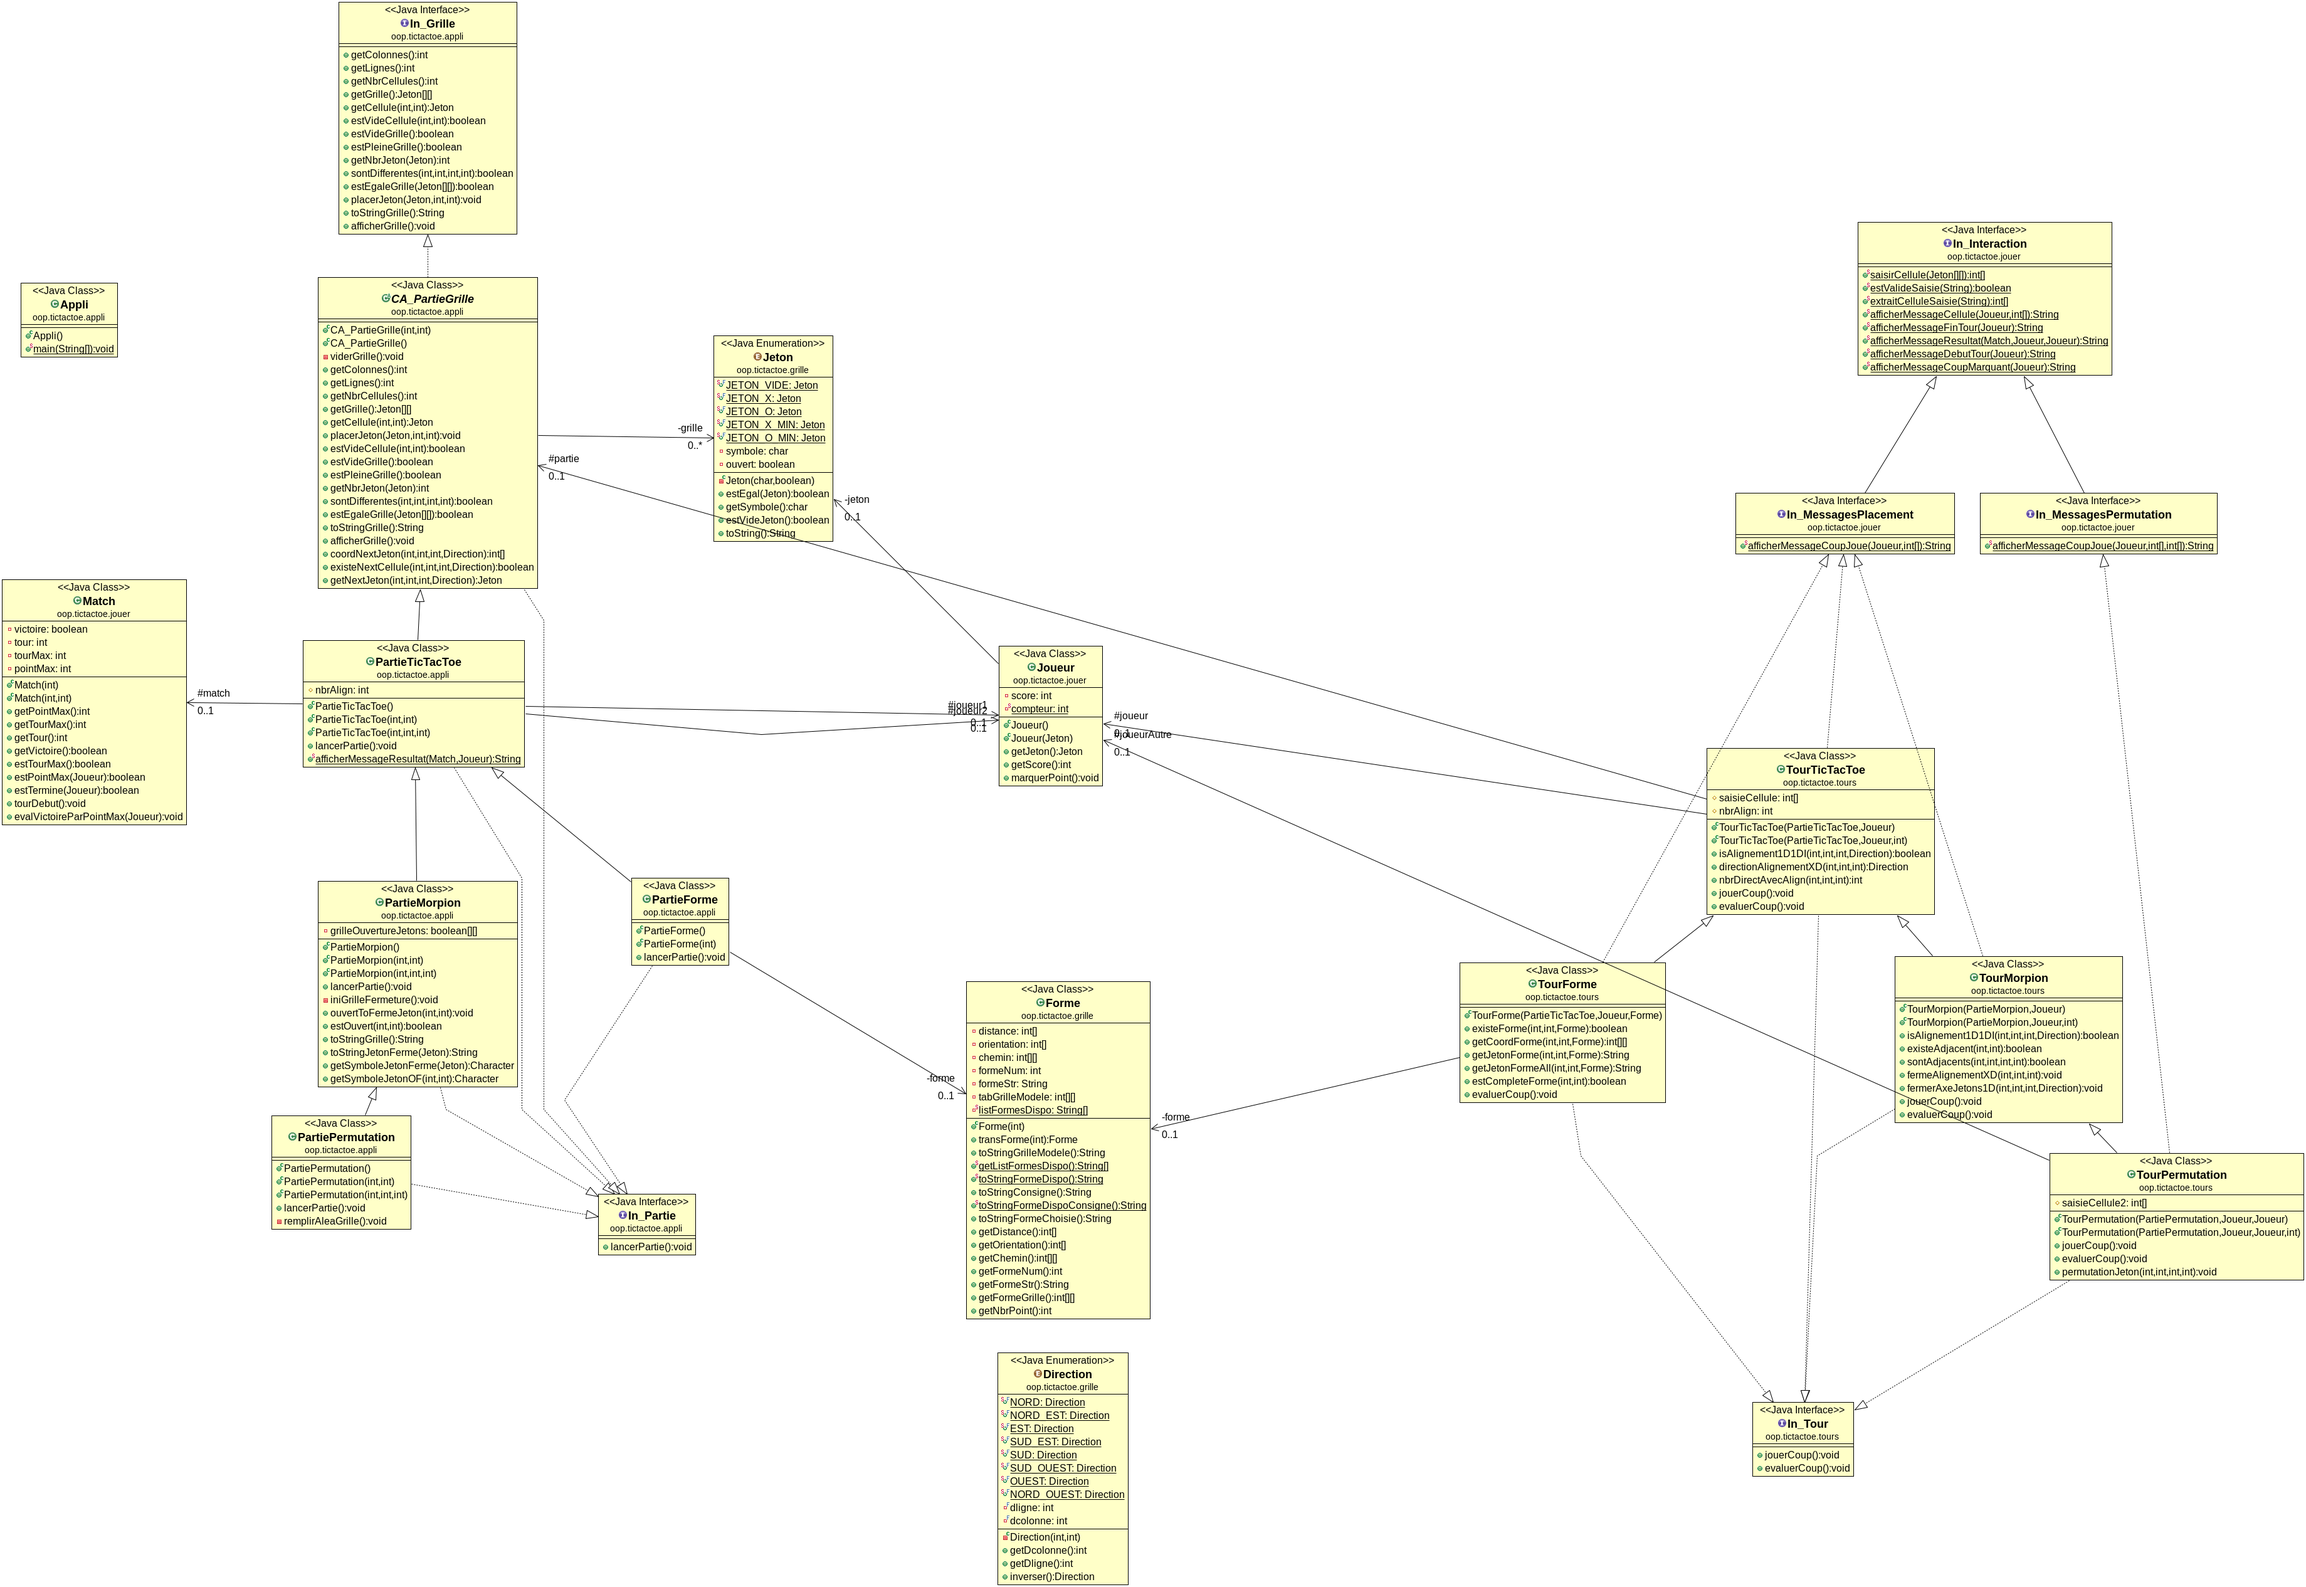
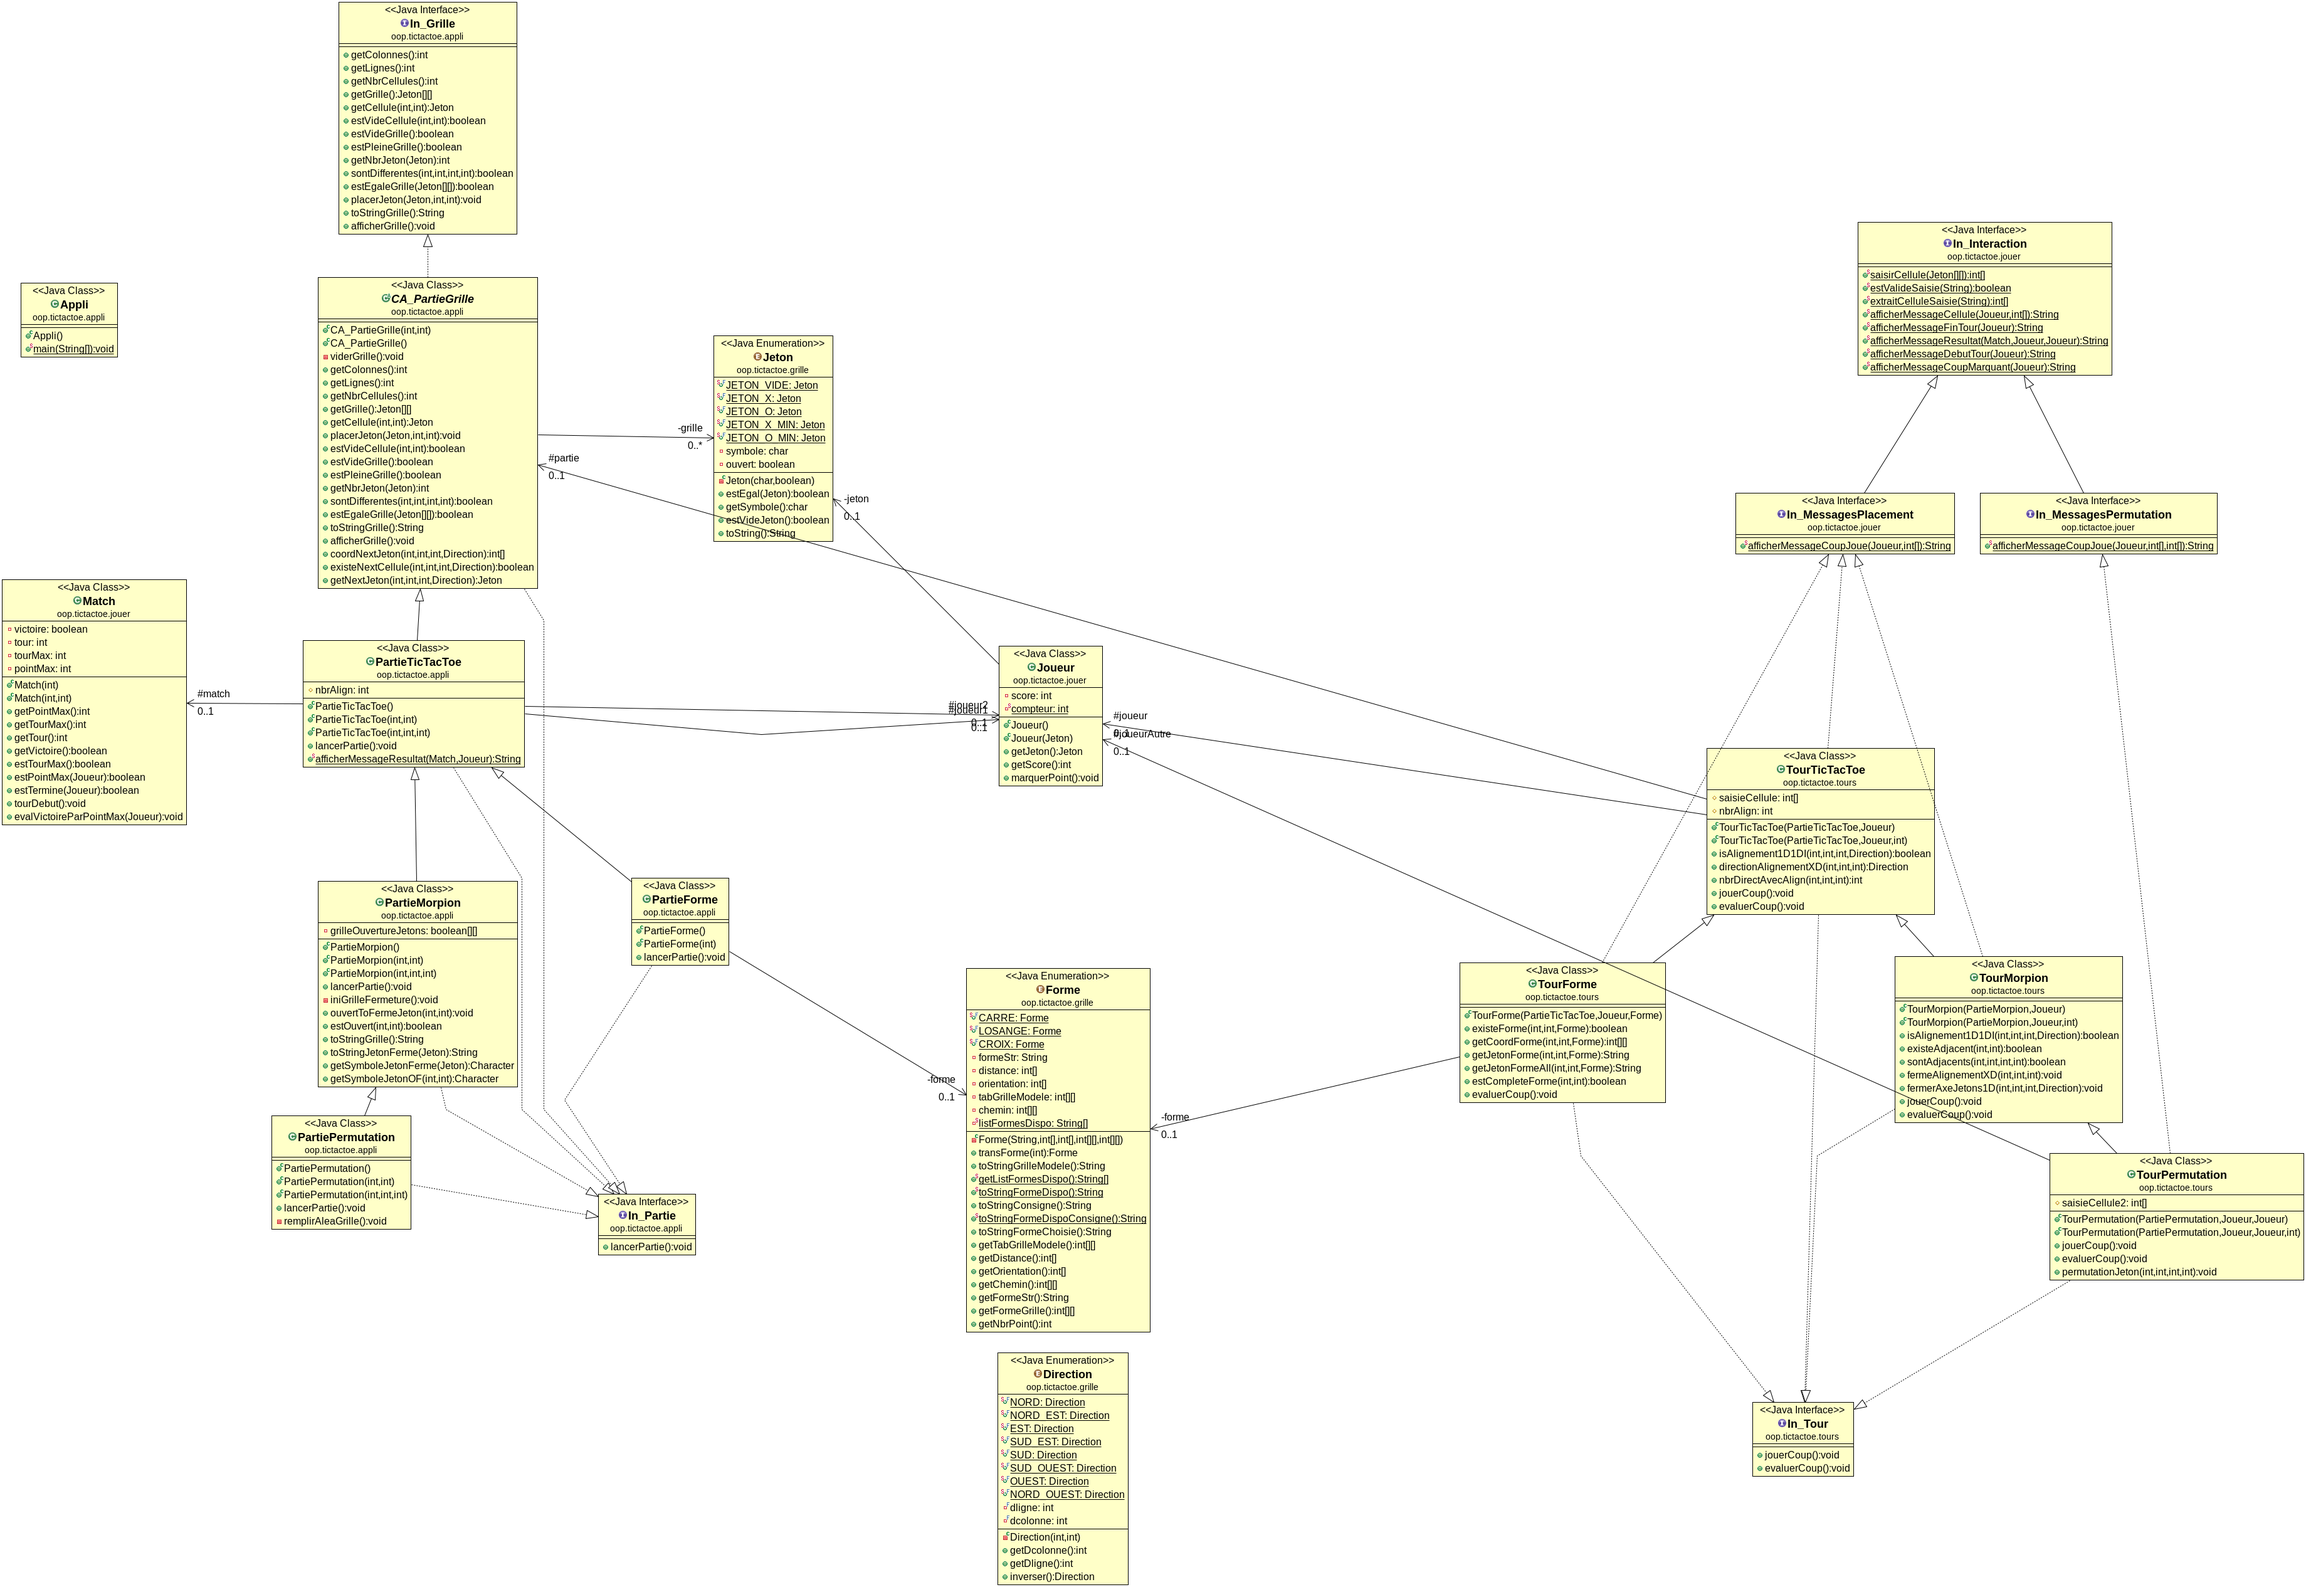
menu forme ok

Changed region(s): [[0.4029, 0.593, 0.4959, 0.8427], [0.4649, 0.437, 0.4959, 0.4682], [0.4029, 0.437, 0.4339, 0.4682]]

diff --git a/OOP-TicTacToe/src/oop/tictactoe/grille/Forme.java b/OOP-TicTacToe/src/oop/tictactoe/grille/Forme.java
@@ -25,43 +25,7 @@ public enum Forme {
 		this.orientation = orientation;
 		this.tabGrilleModele = tabGrilleModele;
 		this.chemin = chemin;
-//		switch (choixForme) {
-//		//niveau de complexite croissant
-//			case 1:
-//				//carre
-//				formeStr = "carre";
-//				distance = new int[] {1,1,1,1} ;
-//				orientation = new int[] {2,4,6,0};
-//				//{Direction.EST,Direction.SUD,Direction.OUEST,Direction.NORD}) ;
-//				tabGrilleModele = new int[][]{{0,0,1,1},{0,1,1,0}}; // {ligne} {colonne}
-//				break ;
-//				
-//			case 2 :
-//				//losange
-//				formeStr = "losange";
-//				distance = new int[]{1,1,1,1};
-//				orientation = new int[]{1,3,5,7};
-//				//{Direction.NORD_EST,Direction.SUD_EST,Direction.SUD_OUEST,Direction.NORD_OUEST}) ;
-//				tabGrilleModele = new int[][]{{0,1,2,1},{1,2,1,0}}; // {ligne} {colonne}
-//				break;
-//	
-//			case 3 :
-//				//croix
-//				formeNum = 3;
-//				formeStr = "croix";
-//				distance = new int[]{1,1,1,1,1} ;
-//				orientation = new int[]{1,3,5,7,6};
-//				//{Direction.NORD_EST,Direction.SUD_EST,Direction.SUD_OUEST,Direction.NORD,Direction.OUEST}),
-//				tabGrilleModele = new int[][]{{0,1,2,1,1},{1,2,1,0,1}}; // {ligne} {colonne}
-//				break ;
-//		}
-//		//creation de la table chemin avec une profondeur et une direction par ligne
-//		assert (orientation.length == distance.length);
-//		chemin = new int[orientation.length][2];
-//		for (int i = 0; i < orientation.length; ++i) {
-//			chemin[i][0] = distance[i];
-//			chemin[i][1] = orientation[i];
-//		}
+
 	}
 
 	/**

diff --git a/OOP-TicTacToe/src/oop/tictactoe/appli/Menu.java b/OOP-TicTacToe/src/oop/tictactoe/appli/Menu.java
@@ -151,7 +151,8 @@ public class Menu {
 			int choixGrilleColonne ;
 			int choixNbrAlignements = 3;
 			int choixForme = 1 ;
-			
+			Forme formeChoisie = null ;
+
 			if (choixJeu == 3) {
 				//taille grille
 				choixGrilleLigne = 12;
@@ -164,7 +165,20 @@ public class Menu {
 				System.out.println(Forme.toStringFormeDispoConsigne());
 				System.out.println("Veuillez choisir une forme pas son indice, entre 1 et "+ Forme.getListFormesDispo().length + " compris.");
 				choixForme = setChoix(1, Forme.getListFormesDispo().length);
-				Forme formeChoisie = new Forme(choixForme);
+				switch (choixForme) {
+					case 1 :
+						//carre
+						formeChoisie = Forme.CARRE;
+						break ;
+					case 2 :
+						//losange
+						formeChoisie = Forme.LOSANGE;
+						break;
+					case 3 :
+						//croix
+						formeChoisie = Forme.CROIX;
+						break;
+				}
 				
 				System.out.println(formeChoisie.toStringFormeChoisie());
 			}
@@ -206,7 +220,7 @@ public class Menu {
 					break;
 				case 3 :
 					System.out.println("La partie de TicTacToe Forme va commencer, preparez-vous !\n");
-					partie = new PartieForme(choixForme);
+					partie = new PartieForme(formeChoisie);
 					break;
 				case 4 :
 					System.out.println("La partie de TicTacToe Permutation va commencer, preparez-vous !\n");

diff --git a/OOP-TicTacToe/src/oop/tictactoe/grille/Test_Forme.java b/OOP-TicTacToe/src/oop/tictactoe/grille/Test_Forme.java
@@ -15,7 +15,7 @@ class Test_Forme {
 		Forme forme ;
 
 		//carre
-		forme = new Forme(1);		
+		forme = Forme.CARRE;		
 		distance = new int[] {1,1,1,1};
 		orientation = new int[] {2,4,6,0};
 		assertArrayEquals(distance, forme.transForme(0).getDistance());
@@ -28,33 +28,6 @@ class Test_Forme {
 		orientation = new int[] {0,2,4,6};
 		assertArrayEquals(distance, forme.transForme(5).getDistance());
 		assertArrayEquals(orientation, forme.transForme(5).getOrientation());
-		
-//		for (int i = 0; i < 10; i++) {
-//			Forme tmp = forme.transForme(i);
-//			System.out.println("\nindice "+i);
-//			System.out.println("\ndistance");
-//			for (int j = 0; j < tmp.getDistance().length; j++) {
-//				System.out.print("{");
-//				System.out.print(tmp.getDistance()[j]);
-//				System.out.print("}");
-//
-//			}
-//			System.out.println("\norientation");
-//			for (int j = 0; j < tmp.getOrientation().length; j++) {
-//				System.out.print("{");
-//				System.out.print(tmp.getOrientation()[j]);
-//				System.out.print("}");
-//
-//			}
-//		}
-//		
-//		formeStr = "losange";
-//		distance = new int[]{1,1,1,1};
-//		orientation = new int[]{1,3,5,7};
-//		
-//		formeStr = "etoile";
-//		distance = new int[]{1,1,1,1,1} ;
-//		orientation = new int[]{1,3,5,7,6};
 		
 	}
 

diff --git a/OOP-TicTacToe/src/oop/tictactoe/appli/Appli.java b/OOP-TicTacToe/src/oop/tictactoe/appli/Appli.java
@@ -16,7 +16,7 @@ public class Appli {
 	public static void main(String[] args) {
 		
 		PartieTicTacToe partie = null ; 
-		
+
 	    for(String s : args){
 
 			int choixJeu = Integer.parseUnsignedInt(s);
@@ -46,10 +46,24 @@ public class Appli {
 				System.out.println(Forme.toStringFormeDispoConsigne());
 				System.out.println("Veuillez choisir une forme pas son indice, entre 1 et "+ Forme.getListFormesDispo().length + " compris.");
 				choixForme = Menu.setChoix(1, Forme.getListFormesDispo().length);
-				Forme formeChoisie = new Forme(choixForme);
+				Forme formeChoisie = null ;
+				switch (choixForme) {
+					case 1 :
+						//carre
+						formeChoisie = Forme.CARRE;
+						break ;
+					case 2 :
+						//losange
+						formeChoisie = Forme.LOSANGE;
+						break;
+					case 3 :
+						//croix
+						formeChoisie = Forme.CROIX;
+						break;
+				}
 				System.out.println(formeChoisie.toStringFormeChoisie());
 				System.out.println("La partie de TicTacToe Forme va commencer, preparez-vous !\n");
-				partie = new PartieForme(choixForme);
+				partie = new PartieForme(formeChoisie);
 				break;
 			case 4 :
 				choixGrilleLigne = 5;

diff --git a/OOP-TicTacToe/src/oop/tictactoe/appli/PartieForme.java b/OOP-TicTacToe/src/oop/tictactoe/appli/PartieForme.java
@@ -11,12 +11,12 @@ public class PartieForme extends PartieTicTacToe implements In_Partie {
 	
 	public PartieForme() {
 		super(12,12);
-		forme = new Forme(1);
+		forme = Forme.CARRE;
 	}
 	
-	public PartieForme(int choixForme) {
+	public PartieForme(Forme forme) {
 		super(12,12);
-		forme = new Forme(choixForme);
+		this.forme = forme;
 	}
 	
 	@Override
